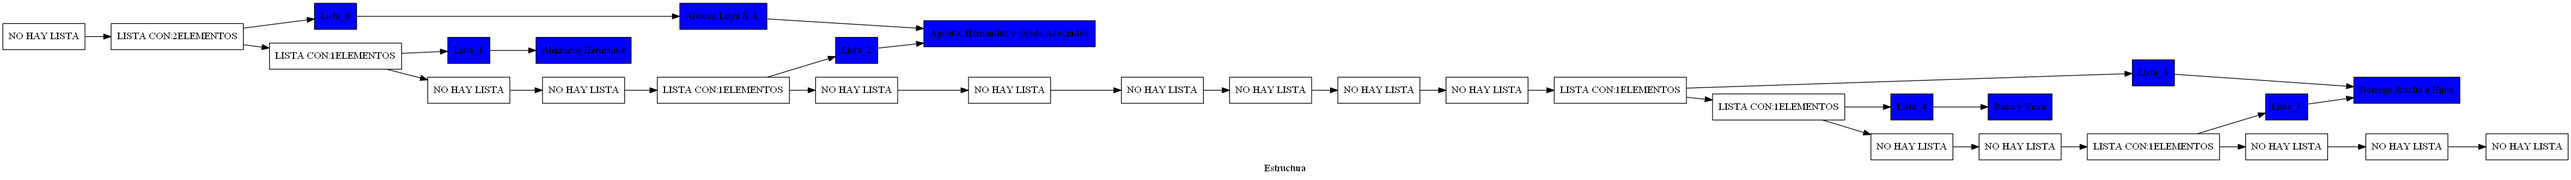
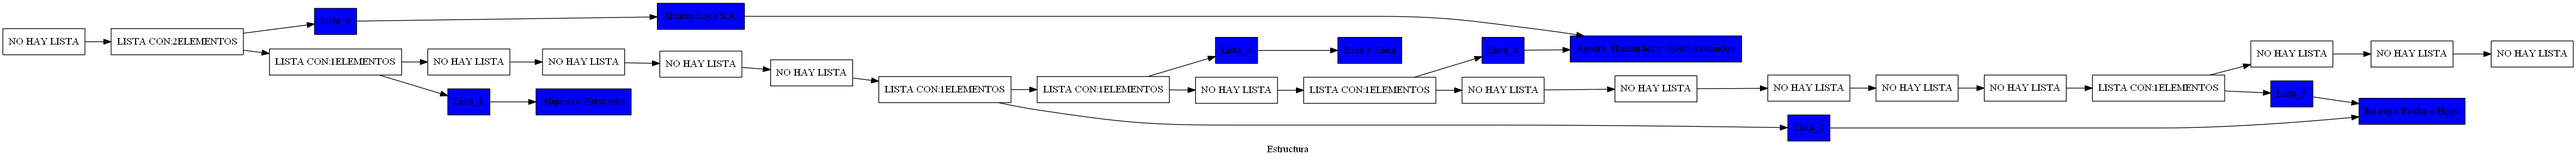
Segundo Commit Fase 2
Se agrega la grafica de los arboles generados con los productos

diff --git a/api/main.go b/api/main.go
@@ -73,6 +73,8 @@ func main(){
 	router.HandleFunc("/Guardar", Guardar).Methods("GET")
 	router.HandleFunc("/Eliminar", Elim_Tienda).Methods("DELETE")
 	router.HandleFunc("/CargarInventario",CargarInventario).Methods("POST")
+	//router.HandleFunc("/api/verInventario", verInventario).Methods("GET")
+	router.HandleFunc("/api/verArbol",verArbol).Methods("GET")
 	router.HandleFunc("/CargarPedido",CargarPedido).Methods("POST")
 	router.HandleFunc("/cargar", Prueba).Methods("POST")
 	router.HandleFunc("/api/ver",verCargar).Methods("GET")
@@ -93,7 +95,23 @@ func CargarPedido(w http.ResponseWriter, r *http.Request){
 	w.WriteHeader(http.StatusCreated)
 	json.NewEncoder(w).Encode(&Pedidos)
 }
+//Definir una funcion para graficar los arboles
+func verArbol(w http.ResponseWriter, r *http.Request){
+	//Estructura.GraficarAvl(ProdAvl)
+	
+	Estructura.GraficarAvl(ProdAvl)
+	
+	fmt.Fprintf(w,"SE HA CREADO EL GRAFICO DE LOS ARBOLES AVL")
+}
+
 //Definir un metodo post para cargar los inventarios
+/*
+func verInventario(w http.ResponseWriter, r *http.Request){
+	
+}*/
+
+
+
 func CargarInventario(w http.ResponseWriter, r *http.Request){
 	
 	reqBody,err := ioutil.ReadAll(r.Body)
@@ -135,8 +153,9 @@ func CargarInventario(w http.ResponseWriter, r *http.Request){
 		arbol := Estructura.NewArbol()
 		for j:=0; j<len(Tiendaprod);j++{
 			arbol.InsertarNodoAVL(&Tiendaprod[j])
-			ProdAvl = append(ProdAvl, arbol)
+			
 		}
+		ProdAvl = append(ProdAvl, arbol)
 		fmt.Println("Se agregaron productos en: ", pos)
 		vector[pos].AgregarProd(Tiendaprod,Tiendanom, Tiendacal)
 	}
@@ -326,6 +345,7 @@ func CargarTiendas(w http.ResponseWriter, r *http.Request) {
 	cantindex := len(data.Data)
 	cantdep := len(data.Data[0].Departamentos)
 	matrix := make([][]*Estructura.NodoM, cantindex)
+	vector = make([]*Estructura.Lista, cantindex*cantdep*5)
 	for i:= 0; i < cantindex; i++{
 		matrix[i] = make([]*Estructura.NodoM, cantdep)
 		letra := string((data.Data[i].Indice)[0])
@@ -369,10 +389,12 @@ func CargarTiendas(w http.ResponseWriter, r *http.Request) {
 			
 		}
 	}
+	
 	for i:=0; i< cantindex; i++{
 		for j:=0; j< cantdep; j++{
 			for k:=0; k<5; k++{
-				vector = append(vector, matrix[i][j].List[k])
+				pos := ((j*(cantindex)+i)*(5))+k
+				vector[pos] = matrix[i][j].List[k]
 			}
 		}
 	}

diff --git a/api/Estructura/ArbolAVL.go b/api/Estructura/ArbolAVL.go
@@ -3,6 +3,10 @@ package Estructura
 import (
 	"fmt"
 	"../Tiendas"
+	"log"
+	"os"
+	"strconv"
+	"os/exec"
 )
 
 // nodo del arbol
@@ -126,7 +130,8 @@ func (ar *Arbol) RetornarProf() int {
 /*****************************RECORRIDOS**********************/
 //Metodo recursivo para recorrer Inorden
 // IZQ - RAIZ - DERECHA
-func inorden(raia *NodoAVL) {
+
+func inorden(raia *NodoAVL){
 	if raia.izq != nil {
 		inorden(raia.izq)
 	}
@@ -136,13 +141,61 @@ func inorden(raia *NodoAVL) {
 	if raia.der != nil {
 		inorden(raia.der)
 	}
+
 }
 
 //metodo que retorna el recorrido
-func (ar *Arbol) RecorridoInorden() {
+func (ar *Arbol) RecorridoInorden(){
 	inorden(ar.raiz)
 	fmt.Println("Termino el recorrido")
 }
+
+func gio(r *NodoAVL, arch *os.File){
+	if r.izq != nil{
+		fmt.Fprintf(arch,"\t\t"+strconv.Itoa(r.izq.valor.Codigo)+"->"+strconv.Itoa(r.valor.Codigo)+"\n")
+		gio(r.izq,arch)
+	}
+	
+	if r.der != nil{
+		fmt.Fprintf(arch,"\t\t"+strconv.Itoa(r.der.valor.Codigo)+"->"+strconv.Itoa(r.valor.Codigo)+"\n")
+		gio(r.der,arch)
+	}
+}
+func (ar *Arbol)GraficarIo(arch *os.File){
+
+	gio(ar.raiz,arch)
+	
+	
+}
+
+func GraficarAvl(pro[] *Arbol){
+	os.Create("Estructura/GraficaAvl.dot")
+	graphdot := getFileAvl("Estructura/GraficaAvl.dot")
+	fmt.Fprintf(graphdot, "digraph G{\n")
+	fmt.Fprintf(graphdot, "\n")
+	fmt.Fprintf(graphdot, "ranckdir = UD;\n")
+	fmt.Fprintf(graphdot, "\n")
+	for j:=0; j<len(pro); j++{
+		fmt.Fprintf(graphdot, "\t"+"subgraph avl_"+strconv.Itoa(j)+"{\n")
+		pro[j].GraficarIo(graphdot)
+		fmt.Fprintf(graphdot,"\n}\n")
+		
+	}
+	fmt.Fprintf(graphdot, "}")
+	exec.Command("dot", "-Tpng", "Estructura/GraficaAvl.dot", "-o", "Estructura/GraficaAvl.png").Output()
+	graphdot.Close()
+}
+
+
+//Definir una funcion para crear un archivo
+func getFileAvl(path string) *os.File{
+	file, err := os.OpenFile(path, os.O_RDWR,0775)
+	if err != nil{
+		log.Fatal(err)
+	}
+	return file
+}
+
 
 //Metodo recursivo para recorre Preorder
 func Preorder(raiz *NodoAVL) {
